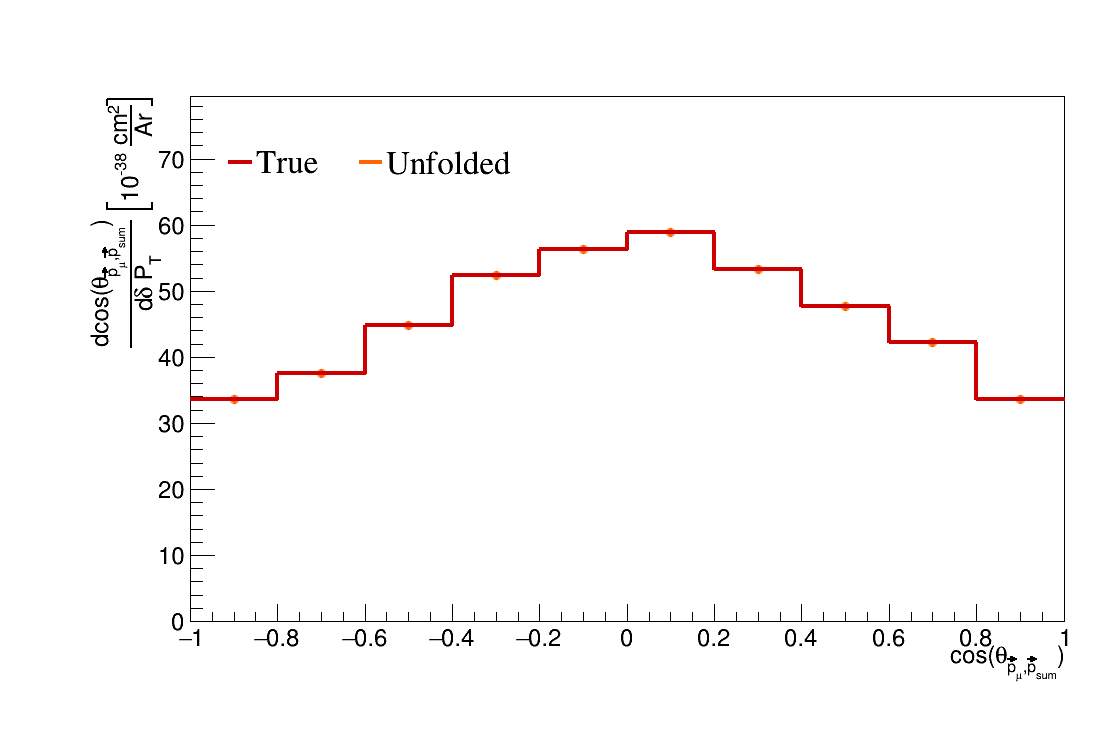
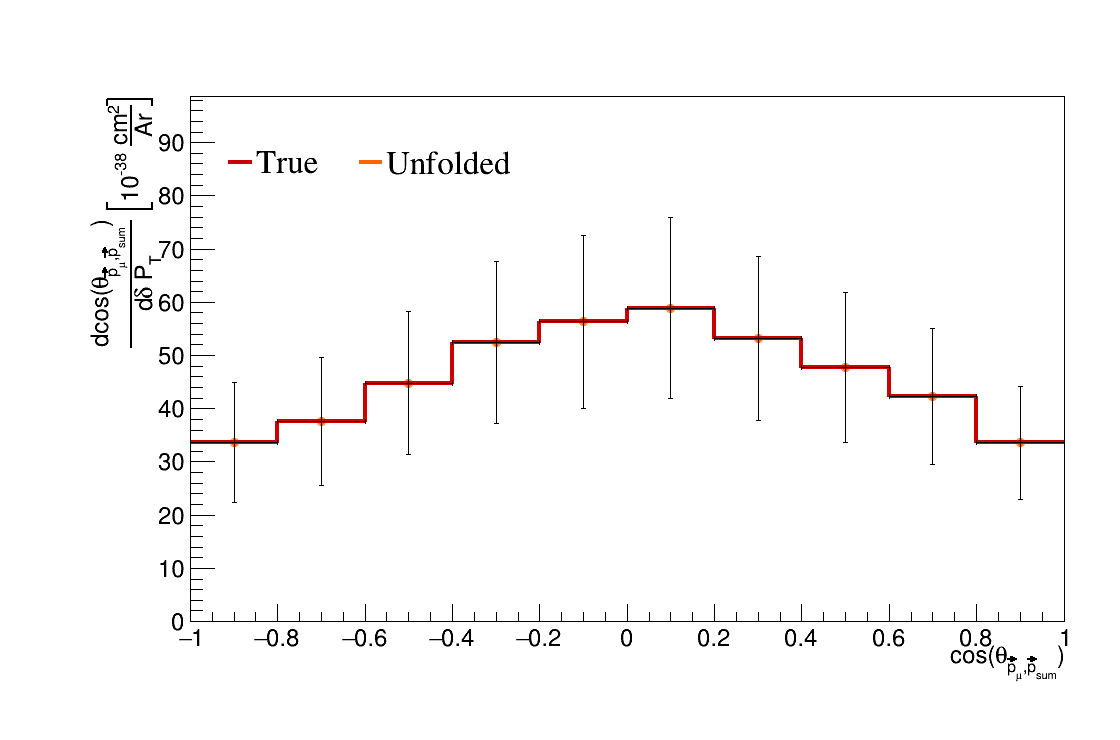
Add systematics to unfolded cross sections

diff --git a/CAFAnaAnalysis/Scripts/Unfold.cpp b/CAFAnaAnalysis/Scripts/Unfold.cpp
@@ -1,10 +1,11 @@
 // ROOT includes.
-#include <TFile.h>
-#include <TTree.h>
-#include <TString.h>
-#include <TCanvas.h>
-#include <TVectorD.h>
-#include <TMatrixD.h>
+#include "TFile.h"
+#include "TTree.h"
+#include "TString.h"
+#include "TCanvas.h"
+#include "TVectorD.h"
+#include "TMatrixD.h"
+#include "TGraphAsymmErrors.h"
 
 // std includes.
 #include <vector>
@@ -237,10 +238,11 @@ void Unfold() {
         // Get transpose cov rotation matrix
         TMatrixD CovRotationT (TMatrixD::kTransposed, CovRotation);
 
-        // Add smear to signal
+        // Get unfolded cross-section
         TH1D* UnfoldedSpectrum = new TH1D("Unfolded"+PlotNames[iPlot],";"+XLabels[iPlot]+";"+YLabels[iPlot], n, edges);
         V2H(unfold, UnfoldedSpectrum); tools.Reweight(UnfoldedSpectrum);
 
+        // Add smear to signal
         TH1D* SmearedSignal = new TH1D("SmearedTrue"+PlotNames[iPlot],";"+XLabels[iPlot]+";"+YLabels[iPlot], n, edges);
         TVectorD SmearedVector = AddSmear * SignalVector;
         V2H(SmearedVector, SmearedSignal); tools.Reweight(SmearedSignal);
@@ -248,11 +250,14 @@ void Unfold() {
         // Declare canvas
         TCanvas* PlotCanvas = new TCanvas(PlotNames[iPlot],PlotNames[iPlot],205,34,1124,768);
 
-        // Plot smearing matrix
+        //////////////////
+        // Smearing matrix
+        //////////////////
+
         TH2D* SmearMatrixHisto = new TH2D("Smearing"+PlotNames[iPlot], "Smearing"+PlotNames[iPlot], n, edges, n, edges);
         M2H(AddSmear, SmearMatrixHisto);
 
-        // Margins for matrices
+        // Margins for matrix
         PlotCanvas->SetTopMargin(0.13);
         PlotCanvas->SetLeftMargin(0.15);
         PlotCanvas->SetRightMargin(0.15);
@@ -275,121 +280,6 @@ void Unfold() {
         PlotCanvas->cd();
         SmearMatrixHisto->Draw("colz");
         PlotCanvas->SaveAs(dir+"/Figs/CAFAna/Smear/"+PlotNames[iPlot]+".png");
-
-        // Margins for unfolded xsecs
-        PlotCanvas->SetTopMargin(0.13);
-        PlotCanvas->SetLeftMargin(0.17);
-        PlotCanvas->SetRightMargin(0.05);
-        PlotCanvas->SetBottomMargin(0.16);
-
-        // Deserialize double differential plots
-        if (PlotNames[iPlot].Contains("Serial")) {
-            auto [SliceDiscriminators, SliceBinning] = PlotNameToDiscriminator["True"+PlotNames[iPlot]+"Plot"];
-            auto [NSlices, SerialVectorRanges, SerialVectorBins, SerialVectorLowBin, SerialVectorHighBin] = tools.FlattenNDBins(SliceDiscriminators, SliceBinning);
-            int StartIndex = 0;
-
-            // Loop over slices
-            for (int iSlice = 0; iSlice < NSlices; iSlice++) {
-                // Slice name
-                TString SlicePlotName = PlotNames[iPlot] + "_" + TString(std::to_string(iSlice));
-
-                // Get slice width
-                double SliceWidth = SliceDiscriminators[iSlice + 1] - SliceDiscriminators[iSlice]; 
-
-                // Get number of bins
-                int SliceNBins = SerialVectorBins.at(iSlice);
-                std::vector<double> SerialSliceBinning;
-
-                for (int iBin = 0; iBin < SliceNBins + 1; iBin++) {
-                    double value = SerialVectorRanges.at(StartIndex + iBin);
-                    SerialSliceBinning.push_back(value);
-                } // End of the number of bins and the bin ranges declaration
-
-                // Slice true and reco true histos
-                TH1D* SlicedSmearedSignal = tools.GetHistoBins(
-                    SmearedSignal,
-                    SerialVectorLowBin.at(iSlice),
-                    SerialVectorHighBin.at(iSlice),
-                    SliceWidth,
-                    SerialSliceBinning,
-                    "SmearedSignal"
-                );
-                TH1D* SlicedUnfoldedSpectrum = tools.GetHistoBins(
-                    UnfoldedSpectrum,
-                    SerialVectorLowBin.at(iSlice),
-                    SerialVectorHighBin.at(iSlice),
-                    SliceWidth,
-                    SerialSliceBinning,
-                    "UnfoldedSpectrum"
-                );
-
-                // Create legend object
-                TLegend* leg = new TLegend(0.2,0.73,0.55,0.83);
-                leg->SetBorderSize(0);
-                leg->SetNColumns(3);
-                leg->SetTextSize(TextSize*0.8);
-                leg->SetTextFont(FontStyle);
-
-                TLegendEntry* legRecoTrue = leg->AddEntry(SlicedSmearedSignal,"True","l");
-                SlicedSmearedSignal->SetLineColor(kRed+1);
-                SlicedSmearedSignal->SetLineWidth(4);
-
-                TLegendEntry* legRecoBkg = leg->AddEntry(SlicedUnfoldedSpectrum,"Unfolded","l");
-                SlicedUnfoldedSpectrum->SetLineColor(kOrange+7);
-                SlicedUnfoldedSpectrum->SetLineWidth(4);
-                SlicedUnfoldedSpectrum->SetMarkerColor(kOrange+7);
-                SlicedUnfoldedSpectrum->SetMarkerStyle(20);
-                SlicedUnfoldedSpectrum->SetMarkerSize(1.);
-
-                double imax = TMath::Max(SlicedUnfoldedSpectrum->GetMaximum(),SlicedSmearedSignal->GetMaximum());
-                double YAxisRange = 1.35*imax;
-                SlicedUnfoldedSpectrum->GetYaxis()->SetRangeUser(0.,YAxisRange);
-                SlicedSmearedSignal->GetYaxis()->SetRangeUser(0.,YAxisRange);
-
-                PlotCanvas->cd();
-                SlicedSmearedSignal->Draw("hist");
-                SlicedUnfoldedSpectrum->Draw("p0 hist same");
-                leg->Draw();
-
-                // Slice label
-                TLatex *textSlice = new TLatex();
-                TString SliceLabel = tools.to_string_with_precision(SliceDiscriminators[iSlice], 1) + " < " + PlotNameToSliceLabel["True"+PlotNames[iPlot]+"Plot"] + " < " + tools.to_string_with_precision(SliceDiscriminators[iSlice + 1], 1);
-                textSlice->DrawLatexNDC(0.4,0.92,SliceLabel);
-
-                // Save histogram
-                PlotCanvas->SaveAs(dir+"/Figs/CAFAna/Unfolded/"+SlicePlotName+".png");	
-            }
-        } else {
-            TLegend* leg = new TLegend(0.2,0.73,0.55,0.83);
-            leg->SetBorderSize(0);
-            leg->SetNColumns(3);
-            leg->SetTextSize(TextSize*0.8);
-            leg->SetTextFont(FontStyle);
-
-            TLegendEntry* legRecoTrue = leg->AddEntry(SmearedSignal,"True","l");
-            SmearedSignal->SetLineColor(kRed+1);
-            SmearedSignal->SetLineWidth(4);
-
-            TLegendEntry* legRecoBkg = leg->AddEntry(UnfoldedSpectrum,"Unfolded","l");
-            UnfoldedSpectrum->SetLineColor(kOrange+7);
-            UnfoldedSpectrum->SetLineWidth(4);
-            UnfoldedSpectrum->SetMarkerColor(kOrange+7);
-			UnfoldedSpectrum->SetMarkerStyle(20);
-			UnfoldedSpectrum->SetMarkerSize(1.);
-
-            double imax = TMath::Max(UnfoldedSpectrum->GetMaximum(),SmearedSignal->GetMaximum());
-            double YAxisRange = 1.35*imax;
-            UnfoldedSpectrum->GetYaxis()->SetRangeUser(0.,YAxisRange);
-            SmearedSignal->GetYaxis()->SetRangeUser(0.,YAxisRange);	
-
-            PlotCanvas->cd();
-            UnfoldedSpectrum->Draw("p0 hist");
-            SmearedSignal->Draw("hist same");
-            leg->Draw();
-
-            // Save histogram
-            PlotCanvas->SaveAs(dir+"/Figs/CAFAna/Unfolded/"+PlotNames[iPlot]+".png");
-        }
 
         ///////////////////////////
         // Bin by bin uncertainties
@@ -629,6 +519,162 @@ void Unfold() {
         leg->Draw();
         PlotCanvas->SaveAs(dir+"/Figs/CAFAna/UnfBinUncertainties/"+PlotNames[iPlot]+".png");
 
+        leg->Clear();
+
+        //////////////////////////
+        // Unfolded cross-sections
+        //////////////////////////
+
+        // Margins for unfolded xsecs
+        PlotCanvas->SetTopMargin(0.13);
+        PlotCanvas->SetLeftMargin(0.17);
+        PlotCanvas->SetRightMargin(0.05);
+        PlotCanvas->SetBottomMargin(0.16);
+
+        // Deserialize double differential plots
+        if (PlotNames[iPlot].Contains("Serial")) {
+            auto [SliceDiscriminators, SliceBinning] = PlotNameToDiscriminator["True"+PlotNames[iPlot]+"Plot"];
+            auto [NSlices, SerialVectorRanges, SerialVectorBins, SerialVectorLowBin, SerialVectorHighBin] = tools.FlattenNDBins(SliceDiscriminators, SliceBinning);
+            int StartIndex = 0;
+
+            // Loop over slices
+            for (int iSlice = 0; iSlice < NSlices; iSlice++) {
+                // Slice name
+                TString SlicePlotName = PlotNames[iPlot] + "_" + TString(std::to_string(iSlice));
+
+                // Get slice width
+                double SliceWidth = SliceDiscriminators[iSlice + 1] - SliceDiscriminators[iSlice]; 
+
+                // Get number of bins
+                int SliceNBins = SerialVectorBins.at(iSlice);
+                std::vector<double> SerialSliceBinning;
+
+                for (int iBin = 0; iBin < SliceNBins + 1; iBin++) {
+                    double value = SerialVectorRanges.at(StartIndex + iBin);
+                    SerialSliceBinning.push_back(value);
+                } // End of the number of bins and the bin ranges declaration
+
+                // Slice true and reco true histos
+                TH1D* SlicedSmearedSignal = tools.GetHistoBins(
+                    SmearedSignal,
+                    SerialVectorLowBin.at(iSlice),
+                    SerialVectorHighBin.at(iSlice),
+                    SliceWidth,
+                    SerialSliceBinning,
+                    "SmearedSignal"
+                );
+                TH1D* SlicedUnfoldedSpectrum = tools.GetHistoBins(
+                    UnfoldedSpectrum,
+                    SerialVectorLowBin.at(iSlice),
+                    SerialVectorHighBin.at(iSlice),
+                    SliceWidth,
+                    SerialSliceBinning,
+                    "UnfoldedSpectrum"
+                );
+
+                // Create error band
+                TGraphAsymmErrors* ErrorBand = new TGraphAsymmErrors;
+                for (int iBin = 1; iBin < SliceNBins + 1; ++iBin) {
+                    const double xnom = SlicedUnfoldedSpectrum->GetXaxis()->GetBinCenter(iBin);
+                    const double ynom = SlicedUnfoldedSpectrum->GetBinContent(iBin);
+                    ErrorBand->SetPoint(iBin, xnom, ynom);
+                    const double dx = SlicedUnfoldedSpectrum->GetXaxis()->GetBinWidth(iBin);
+                    ErrorBand->SetPointError(
+                        iBin, dx/2, dx/2,
+                        TMath::Sqrt(UnfTotalCovHisto->GetBinContent(StartIndex + iBin, StartIndex + iBin)) / (SliceWidth * dx),
+                        TMath::Sqrt(UnfTotalCovHisto->GetBinContent(StartIndex + iBin, StartIndex + iBin)) / (SliceWidth * dx)
+                    );
+                }
+
+                // Create legend object
+                TLegend* leg = new TLegend(0.2,0.73,0.55,0.83);
+                leg->SetBorderSize(0);
+                leg->SetNColumns(3);
+                leg->SetTextSize(TextSize*0.8);
+                leg->SetTextFont(FontStyle);
+
+                TLegendEntry* legRecoTrue = leg->AddEntry(SlicedSmearedSignal,"True","l");
+                SlicedSmearedSignal->SetLineColor(kRed+1);
+                SlicedSmearedSignal->SetLineWidth(4);
+
+                TLegendEntry* legRecoBkg = leg->AddEntry(SlicedUnfoldedSpectrum,"Unfolded","l");
+                SlicedUnfoldedSpectrum->SetLineColor(kOrange+7);
+                SlicedUnfoldedSpectrum->SetLineWidth(4);
+                SlicedUnfoldedSpectrum->SetMarkerColor(kOrange+7);
+                SlicedUnfoldedSpectrum->SetMarkerStyle(20);
+                SlicedUnfoldedSpectrum->SetMarkerSize(1.);
+
+                double imax = TMath::Max(SlicedUnfoldedSpectrum->GetMaximum(),SlicedSmearedSignal->GetMaximum());
+                double YAxisRange = 1.35*imax;
+                SlicedUnfoldedSpectrum->GetYaxis()->SetRangeUser(0.,YAxisRange);
+                SlicedSmearedSignal->GetYaxis()->SetRangeUser(0.,YAxisRange);
+
+                PlotCanvas->cd();
+                SlicedSmearedSignal->Draw("hist");
+                SlicedUnfoldedSpectrum->Draw("p0 hist same");
+                ErrorBand->Draw("e1 same");
+                leg->Draw();
+
+                // Slice label
+                TLatex *textSlice = new TLatex();
+                TString SliceLabel = tools.to_string_with_precision(SliceDiscriminators[iSlice], 1) + " < " + PlotNameToSliceLabel["True"+PlotNames[iPlot]+"Plot"] + " < " + tools.to_string_with_precision(SliceDiscriminators[iSlice + 1], 1);
+                textSlice->DrawLatexNDC(0.4,0.92,SliceLabel);
+
+                // Save histogram
+                PlotCanvas->SaveAs(dir+"/Figs/CAFAna/Unfolded/"+SlicePlotName+".png");	
+            }
+        } else {
+            // Create error band
+            TGraphAsymmErrors* ErrorBand = new TGraphAsymmErrors;
+            for (int iBin = 1; iBin < UnfoldedSpectrum->GetNbinsX() + 1; ++iBin) {
+                const double xnom = UnfoldedSpectrum->GetXaxis()->GetBinCenter(iBin);
+                const double ynom = UnfoldedSpectrum->GetBinContent(iBin);
+                ErrorBand->SetPoint(iBin, xnom, ynom);
+                const double dx = UnfoldedSpectrum->GetXaxis()->GetBinWidth(iBin);
+                ErrorBand->SetPointError(
+                    iBin, dx/2, dx/2,
+                    TMath::Sqrt(UnfTotalCovHisto->GetBinContent(iBin, iBin)),
+                    TMath::Sqrt(UnfTotalCovHisto->GetBinContent(iBin, iBin))
+                );
+            }
+
+            TLegend* leg = new TLegend(0.2,0.73,0.55,0.83);
+            leg->SetBorderSize(0);
+            leg->SetNColumns(3);
+            leg->SetTextSize(TextSize*0.8);
+            leg->SetTextFont(FontStyle);
+
+            TLegendEntry* legRecoTrue = leg->AddEntry(SmearedSignal,"True","l");
+            SmearedSignal->SetLineColor(kRed+1);
+            SmearedSignal->SetLineWidth(4);
+
+            TLegendEntry* legRecoBkg = leg->AddEntry(UnfoldedSpectrum,"Unfolded","l");
+            UnfoldedSpectrum->SetLineColor(kOrange+7);
+            UnfoldedSpectrum->SetLineWidth(4);
+            UnfoldedSpectrum->SetMarkerColor(kOrange+7);
+			UnfoldedSpectrum->SetMarkerStyle(20);
+			UnfoldedSpectrum->SetMarkerSize(1.);
+
+            double imax = TMath::Max(UnfoldedSpectrum->GetMaximum(),SmearedSignal->GetMaximum());
+            double YAxisRange = 1.35*imax;
+
+            double maxY = 0;
+            for(int i = 1; i < ErrorBand->GetN() - 1; ++i){
+                maxY = std::max(maxY, ErrorBand->GetY()[i] + ErrorBand->GetErrorYhigh(i));
+            }
+            std::cout << maxY << std::endl;
+            UnfoldedSpectrum->GetYaxis()->SetRangeUser(0.,1.3 * maxY);
+            SmearedSignal->GetYaxis()->SetRangeUser(0.,1.3 * maxY);	
+
+            PlotCanvas->cd();
+            UnfoldedSpectrum->Draw("p0 hist");
+            SmearedSignal->Draw("hist same");
+            ErrorBand->Draw("e1 same");
+            leg->Draw();
+
+            // Save histogram
+            PlotCanvas->SaveAs(dir+"/Figs/CAFAna/Unfolded/"+PlotNames[iPlot]+".png");
+        }
         delete PlotCanvas;
     }
 }
